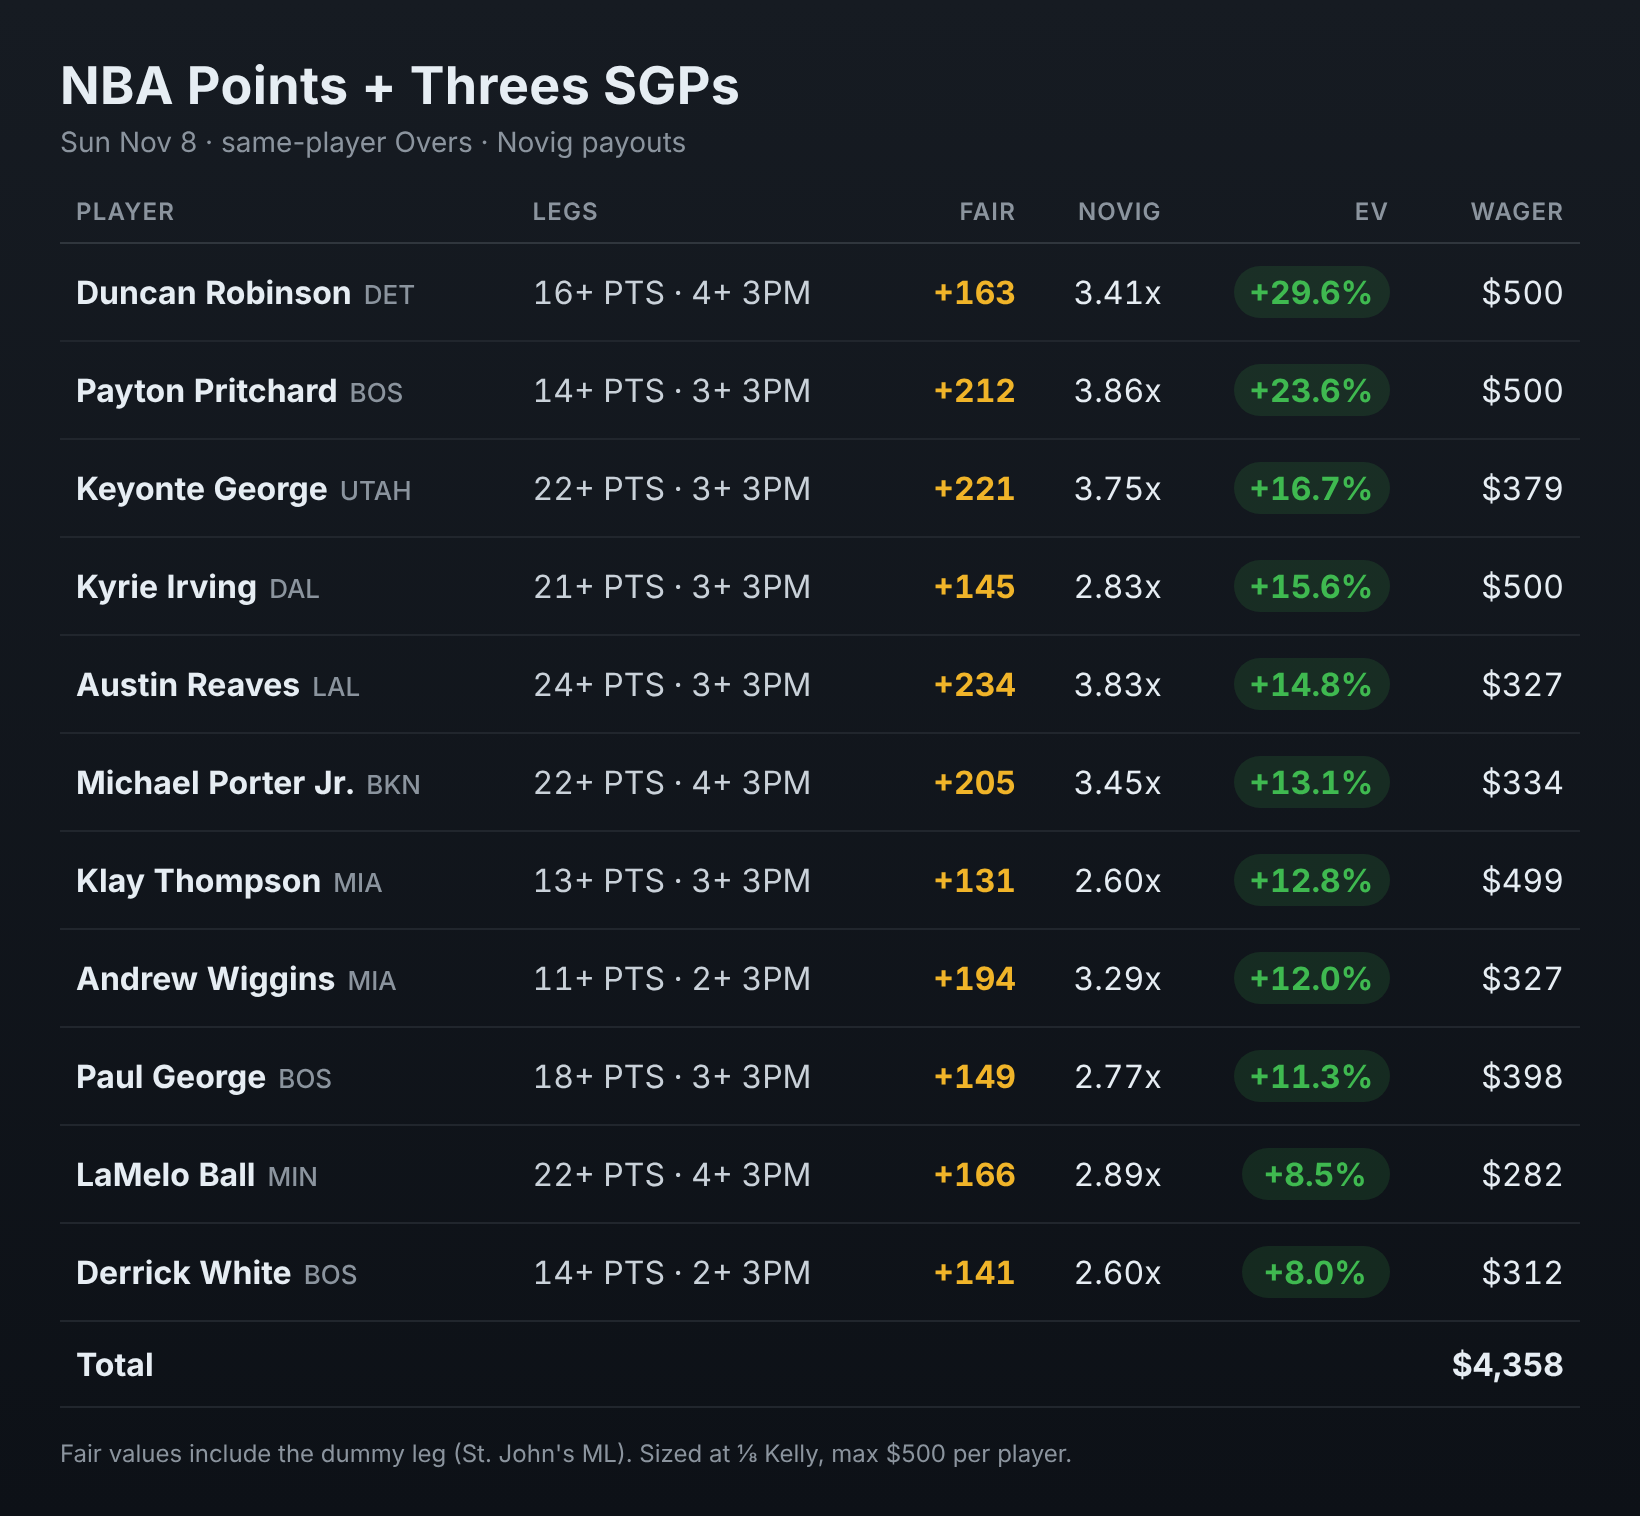
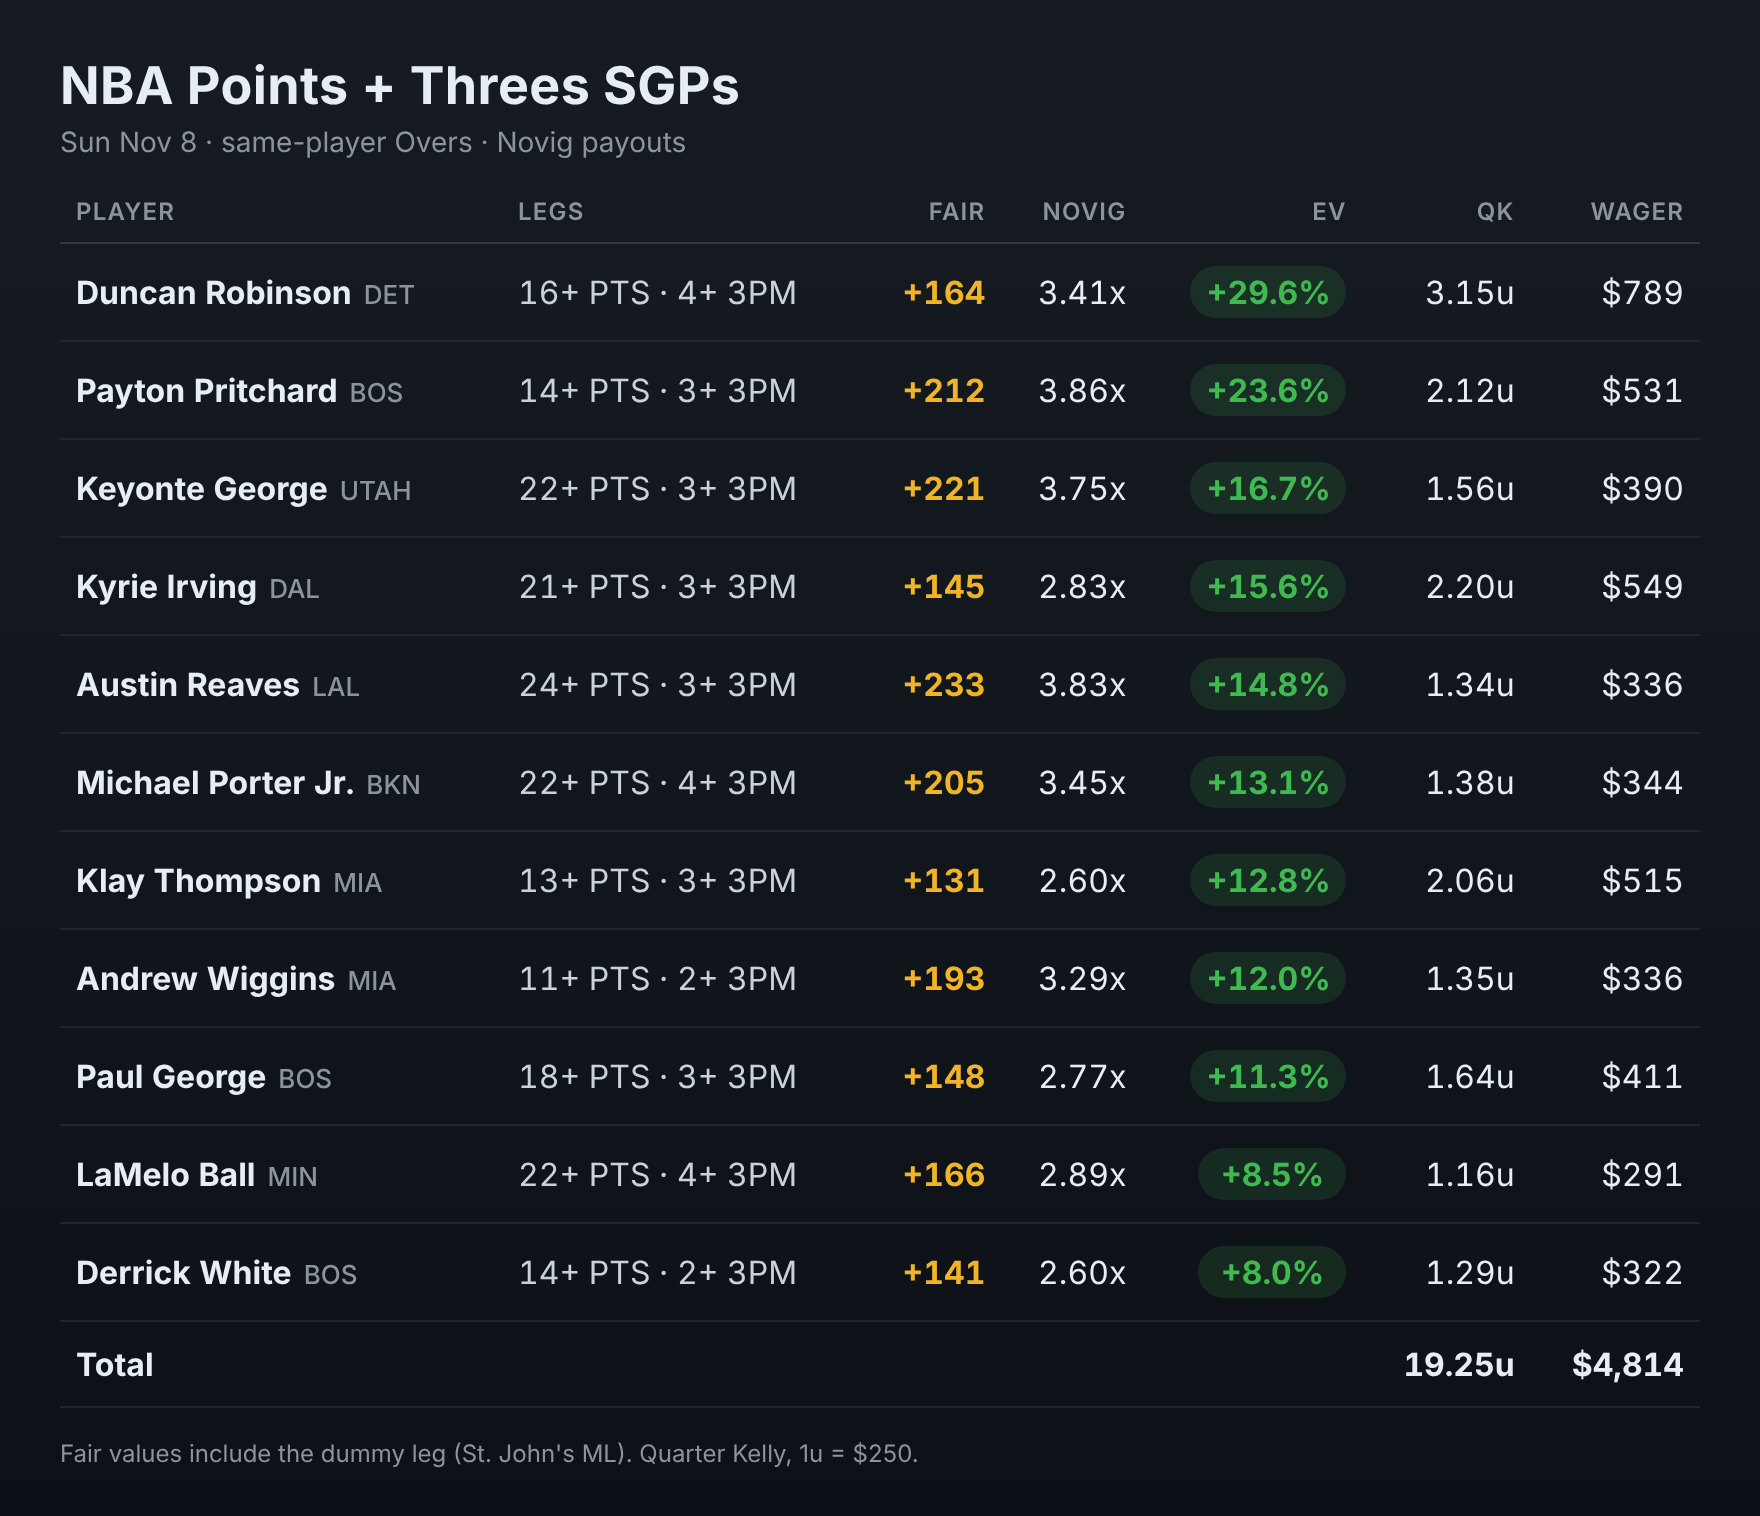
Quarter Kelly with $250 units; drop the eighth-Kelly cap; update 11/8 card
Claude-Session: https://claude.ai/code/session_01Dcr6qixbdhoz35rbPKJ3A2

diff --git a/.claude/skills/nba-sgp-fv/price.py b/.claude/skills/nba-sgp-fv/price.py
@@ -8,7 +8,7 @@
 
 --payout is the slip's price (3.80, 3.80x or +280). It adds EV% and a
 quarter-Kelly stake at the FV as shown: units = f/4 x 100 (1u = 1% of
-bankroll), dollars = units x --unit (default $500, Max's unit).
+bankroll), dollars = units x --unit (default $250, Max's unit).
 
 Each leg: <stat> <over|under> <line> [from <posted line>] odds <over> [<under>]
       or: <stat> <over|under> <line> [from <posted line>] odds novig
@@ -267,7 +267,7 @@ def main():
     ap.add_argument("player")
     ap.add_argument("legs", nargs="+")
     ap.add_argument("--payout", help="slip price: decimal (3.80, 3.80x) or American (+280)")
-    ap.add_argument("--unit", type=float, default=500.0, help="dollars per unit, 1u = 1%% of bankroll")
+    ap.add_argument("--unit", type=float, default=250.0, help="dollars per unit, 1u = 1%% of bankroll")
     ap.add_argument("--kelly", type=float, default=0.25, help="Kelly fraction (default quarter)")
     ap.add_argument("--novig-spread", type=float, default=novig.MAX_SPREAD,
                     help="widest Novig market (ask - bid, probability) to price a novig leg from")

diff --git a/.claude/skills/nba-sgp-fv/SKILL.md b/.claude/skills/nba-sgp-fv/SKILL.md
@@ -1,6 +1,6 @@
 ---
 name: nba-sgp-fv
-description: Fair value of an NBA same-player SGP (2+ legs of points, rebounds, assists, threes) from a bet-slip screenshot (Novig, Pikkit, a book), with leg fair values pulled live from Novig's exchange, or taken from Vulture fair odds or a book's two-way price. Triggers on a slip screenshot with "FV?", "fair value", "price this", "calc FV", or "what r should I use". Reply with the four-line FV / EV% / Kelly Wager / QK block (quarter Kelly, $500 units).
+description: Fair value of an NBA same-player SGP (2+ legs of points, rebounds, assists, threes) from a bet-slip screenshot (Novig, Pikkit, a book), with leg fair values pulled live from Novig's exchange, or taken from Vulture fair odds or a book's two-way price. Triggers on a slip screenshot with "FV?", "fair value", "price this", "calc FV", or "what r should I use". Reply with the four-line FV / EV% / Kelly Wager / QK block (quarter Kelly, $250 units).
 ---
 
 # NBA same-player SGP fair value
@@ -97,11 +97,9 @@ QK=1.38u
 - **EV%** = p × decimal − 1, where p is the probability of the FV as shown,
   so the block checks by hand.
 - **Kelly:** quarter Kelly at p, f = (p·b − (1−p))/b with b = decimal − 1.
-  QK = max(f, 0)/4 × 100 units (1u = 1% of bankroll); Kelly Wager = QK × $500
+  QK = max(f, 0)/4 × 100 units (1u = 1% of bankroll); Kelly Wager = QK × $250
   (Max's unit, same as his MLB skills; `--unit` overrides). Negative EV shows
   $0.00 and 0.00u.
-- **Novig SGP scans (many plays at once):** size at eighth Kelly (QK/2),
-  capped at 1u = $500 per player: Novig liquidity runs out around $500.
 - **No payout given:** `FV = +229` only, then ask for the payout.
 - No book-by-book comparison, no verdict: the user does the book part.
 - Always quote leg prices, fair values and comparisons as American odds

diff --git a/novig-kit/SKILL.md b/novig-kit/SKILL.md
@@ -46,8 +46,8 @@ Skip games that have started.
     P   = 1 / Fair x                       (win prob of the whole slip incl. dummy)
     EV% = (M x P - 1) x 100
     b   = M - 1
-    QK  = min(1, max(0, (P*b - (1-P)) / b) / 8 x 100)   units (eighth Kelly, 1u cap)
-    $   = QK x 500   (never above $500: Novig liquidity runs out there)
+    QK  = max(0, (P*b - (1-P)) / b) / 4 x 100   units (quarter Kelly)
+    $   = QK x 250
     FV  = fair American odds of P
 
 ## 5. Report
